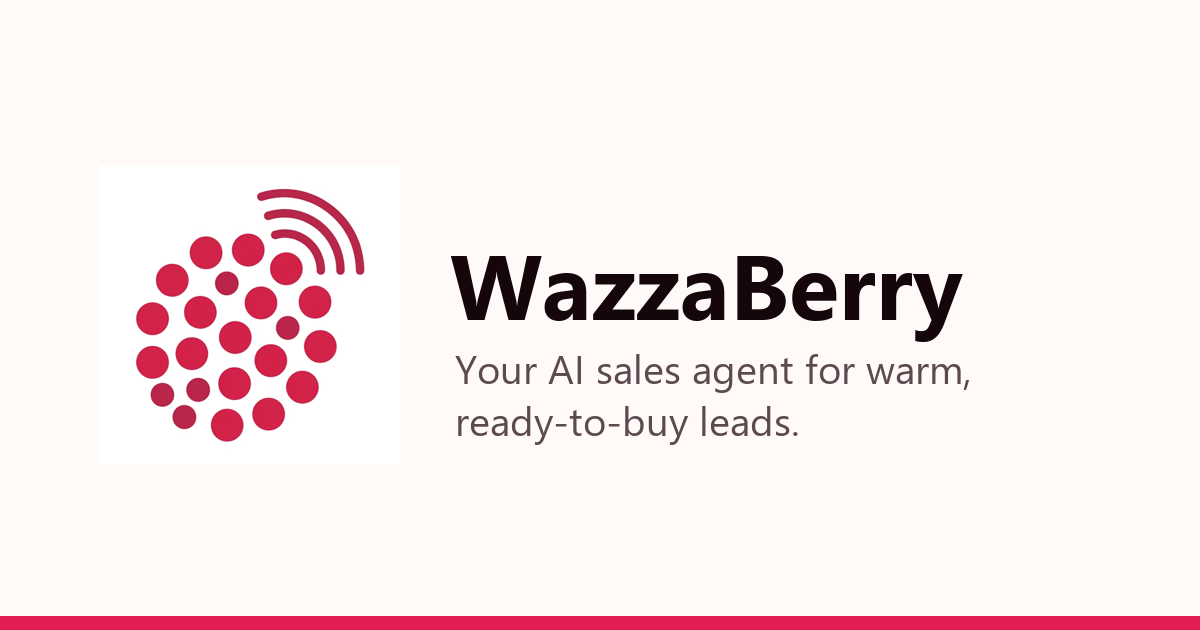
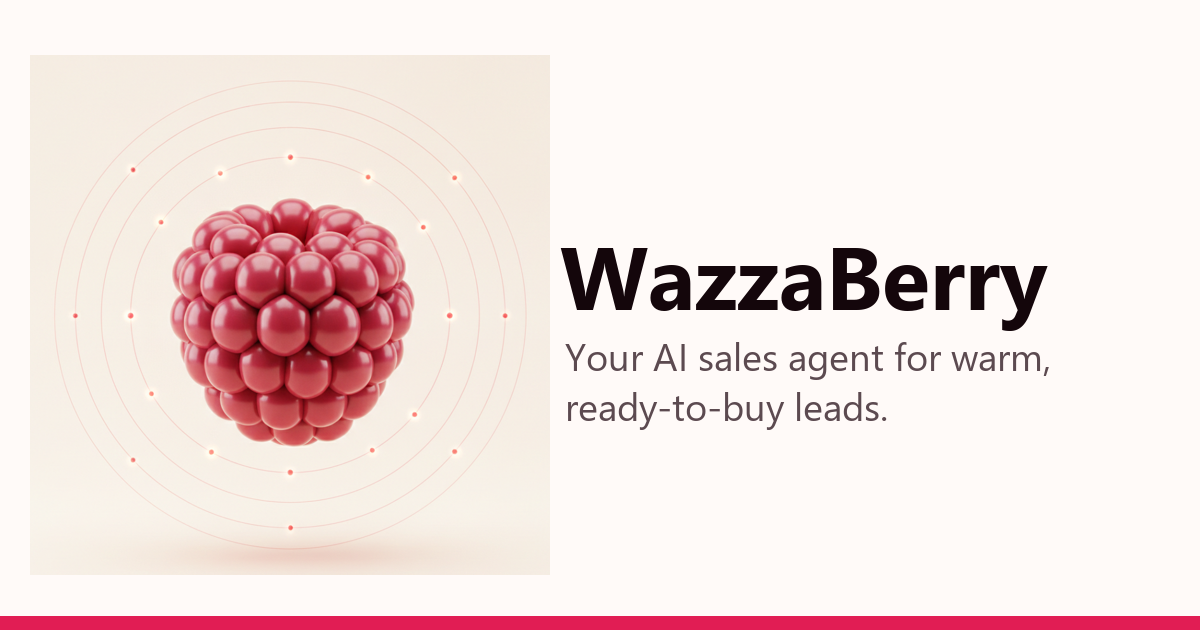
Rebuild OG card with berry illustration; dashboard empty state
- og.png now uses the 3D berry-radar illustration beside the wordmark
- Signed-in users without an agent see an illustrated empty-state card
  with a setup CTA, and a matching greeting

Changed region(s): [[0.0617, 0.0603, 0.8942, 0.754], [0.0925, 0.8143, 0.4317, 0.9349], [0.1542, 0.181, 0.185, 0.2111]]

diff --git a/app/app/Dashboard.tsx b/app/app/Dashboard.tsx
@@ -79,7 +79,9 @@ export default function Dashboard({
           <p className="text-sm text-ink-600">
             {agent
               ? `Your agent is set up for ${agent.website} — ${agent.mode} mode on ${agent.channels.join(" + ")}.`
-              : "Your agent contacted 46 prospects overnight. 3 replies are waiting."}
+              : signedIn
+                ? "Let's get your agent up and running."
+                : "Your agent contacted 46 prospects overnight. 3 replies are waiting."}
           </p>
         </div>
         {agent ? (
@@ -124,6 +126,33 @@ export default function Dashboard({
           </span>
         )}
       </div>
+
+      {signedIn && !agent && (
+        <div className="mt-8 flex flex-col items-center gap-6 rounded-2xl border border-berry-100 bg-white p-8 sm:flex-row">
+          {/* eslint-disable-next-line @next/next/no-img-element */}
+          <img
+            src="/illustrations/berry-radar.png"
+            alt=""
+            className="h-36 w-36 rounded-2xl object-cover"
+          />
+          <div>
+            <h2 className="text-lg font-bold text-ink-900">
+              Your agent isn&apos;t running yet
+            </h2>
+            <p className="mt-1 text-sm text-ink-600">
+              Three minutes of setup and it starts hunting your best-fit
+              buyers around the clock. The numbers below are sample data —
+              launch your agent to make them real.
+            </p>
+            <Link
+              href="/app/onboarding"
+              className="mt-4 inline-block rounded-full bg-berry-600 px-6 py-2.5 text-sm font-semibold text-white shadow-lg shadow-berry-600/25 transition hover:bg-berry-700"
+            >
+              Set up my agent →
+            </Link>
+          </div>
+        </div>
+      )}
 
       <div className="mt-8 grid gap-4 sm:grid-cols-2 lg:grid-cols-4">
         {KPIS.map((k) => (